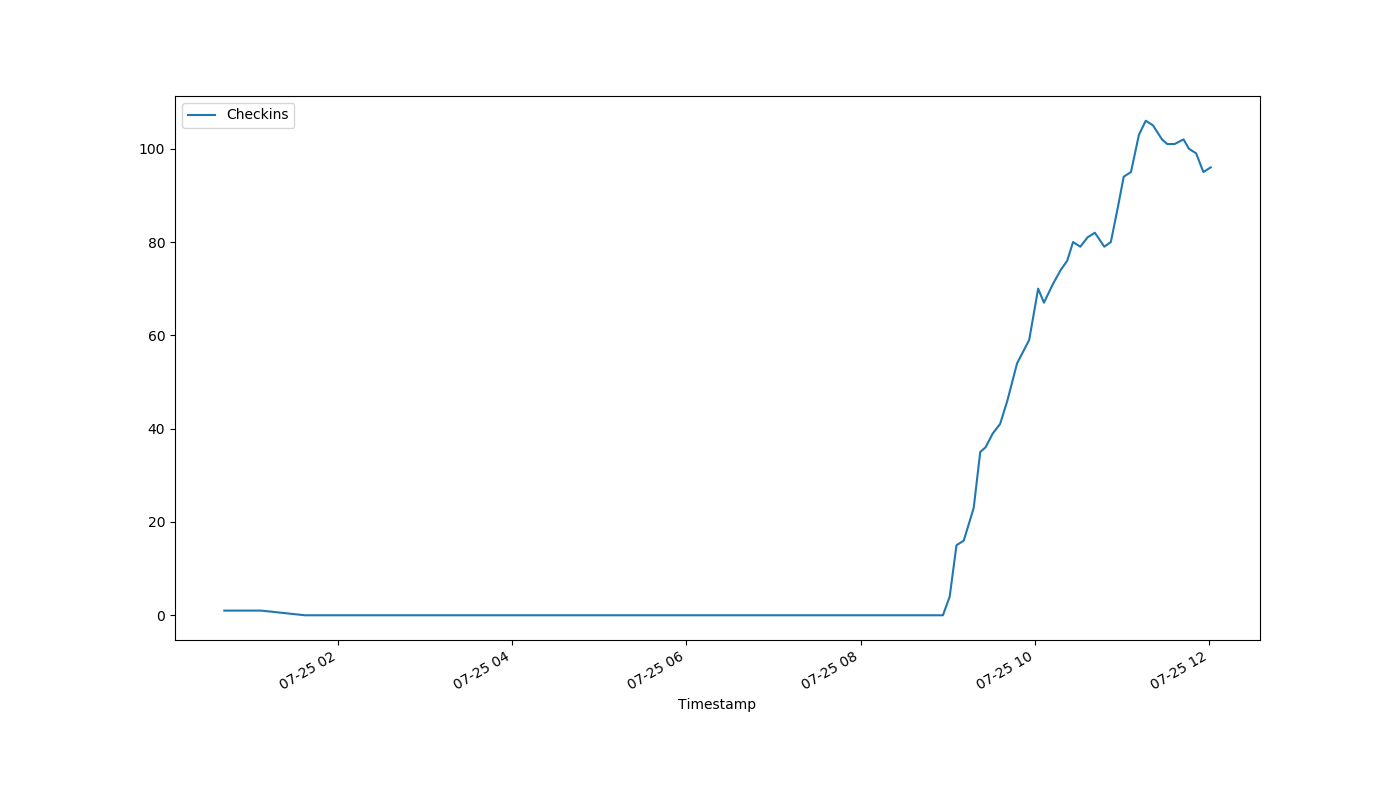
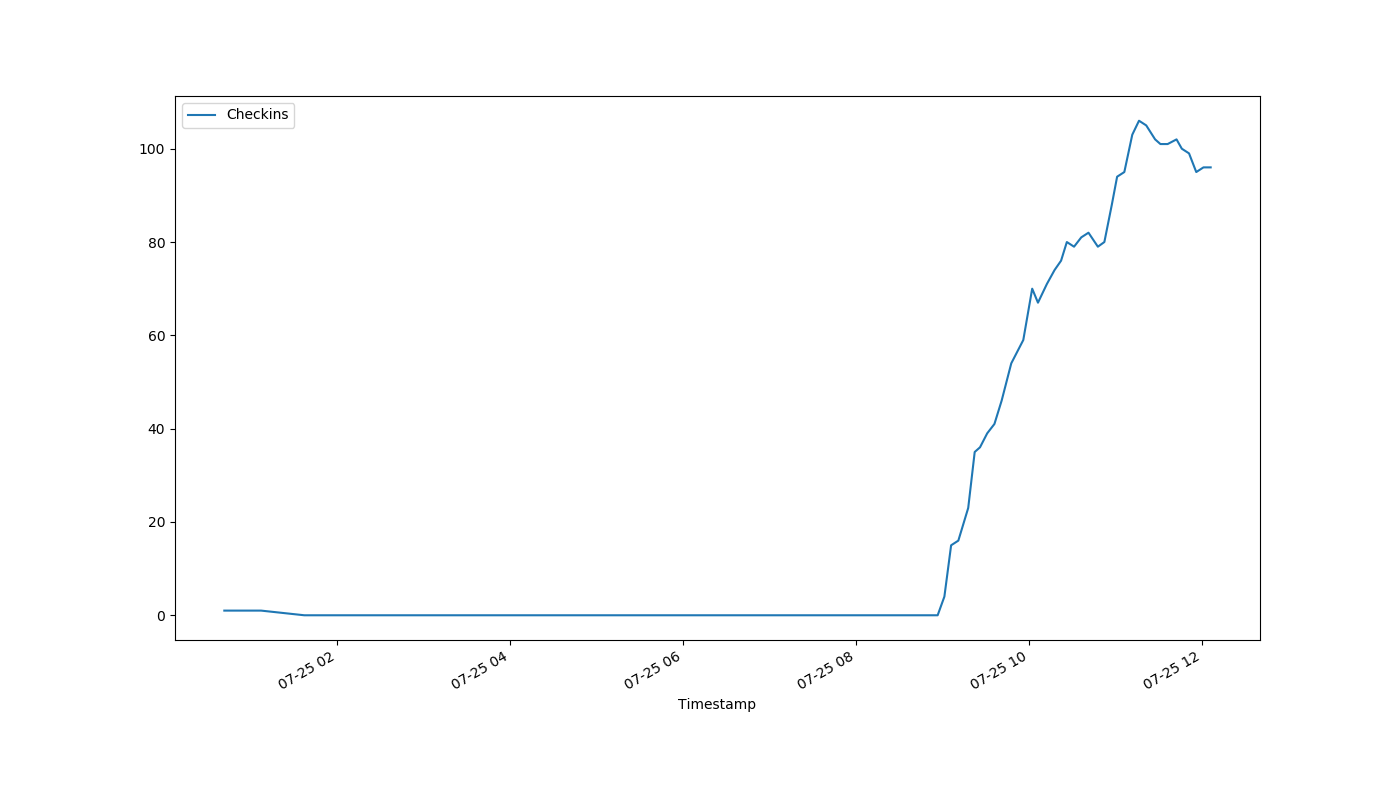
auto-Jul-25-12:07:38

diff --git a/index.html b/index.html
@@ -1,1 +1,1 @@
-<!DOCTYPE html><html><head><meta http-equiv="refresh" content="30"><link rel='stylesheet' href='holmcurrent.css'></head><body><p id='count'>96</p><div id='graph-wrap'><img id='graph' src='holmgraph-Jul-25.png'></div><p id='updated'>Last updated 12:01:19 / 12:01:02</p></body></html>
+<!DOCTYPE html><html><head><meta http-equiv="refresh" content="30"><link rel='stylesheet' href='holmcurrent.css'></head><body><p id='count'>96</p><div id='graph-wrap'><img id='graph' src='holmgraph-Jul-25.png'></div><p id='updated'>Last updated 12:07:00 / 12:06:02</p></body></html>
